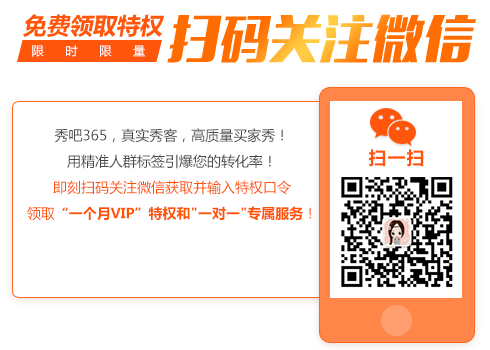
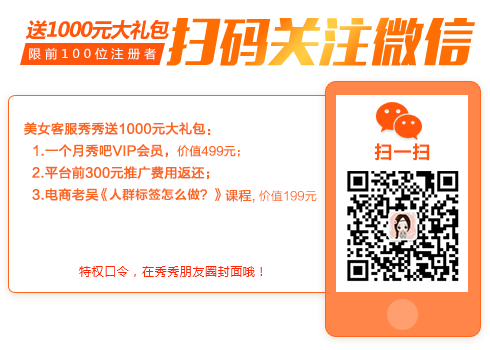
微信弹框修改

Changed region(s): [[0.0, 0.2286, 0.9796, 1.0], [0.0306, 0.0286, 0.9796, 0.2], [0.1531, 0.7429, 0.5204, 0.8]]

diff --git a/src/view/Home.vue b/src/view/Home.vue
@@ -244,7 +244,7 @@
         </div>
       </div>
     </div>
-    <Modal v-model="wechartAlertShow" width="600" @on-cancel="cancelWeiChartFunc">
+    <Modal v-model="wechartAlertShow" width="550" @on-cancel="cancelWeiChartFunc">
       <div style="text-align: right;margin-right: 11px;position: relative;top: -2px;">
         <Checkbox-group  v-model="wechartShowAgain">
           <Checkbox label="true">不再提醒</Checkbox>
@@ -255,9 +255,10 @@
           <!--<iInput v-model="command"  class="left mr-10" style="width:150px;"></iInput>-->
           <!--<iButton class="left" type="error" @click="setWeChartAlertFunc(0)" >提交</iButton>-->
         <!--</p>-->
+        <img style="position: absolute;top: 0;" src="/static/img/home/wechart_alert_01.png"  alt="">
         <img v-show="getUserInfoRole == 1" src="/static/img/home/wechart_alert_03.png" alt="" style="width: 100%; margin-top: 20px">
-        <p v-show="getUserInfoRole == 1" class="ml-10" style="position: absolute;bottom: 90px;left: 21px; height: 30px; line-height: 30px;">
-          <span class="left fs-14 mr-10" style="color: #ff6633;">特权口令：</span>
+        <p v-show="getUserInfoRole == 1" class="ml-10" style="position: absolute;bottom: 111px;left: 21px; height: 30px; line-height: 30px;">
+          <span class="left fs-12 ml-10" style="color: #ff6633;">特权口令：</span>
           <iInput v-model="command" class="left mr-10" style="width:150px;"></iInput>
           <iButton  class="left" type="error" @click="setWeChartAlertFunc(1)" >提交</iButton>
         </p>
@@ -265,7 +266,7 @@
       <div slot="footer">
       </div>
     </Modal>
-    <Modal v-model="$store.state.wechartShow" width="600" @on-cancel="cancelWeiChartFunc">
+    <Modal v-model="$store.state.wechartShow" width="550" @on-cancel="cancelWeiChartFunc">
       <div style="text-align: right;margin-right: 11px;position: relative;top: -2px;">
         <Checkbox-group  v-model="wechartShowAgain">
           <Checkbox label="true">不再提醒</Checkbox>
